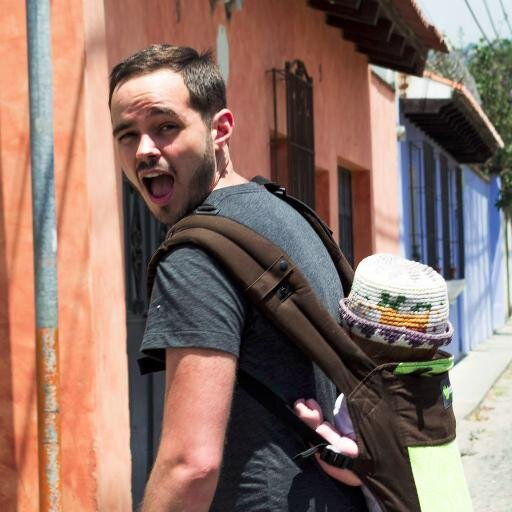
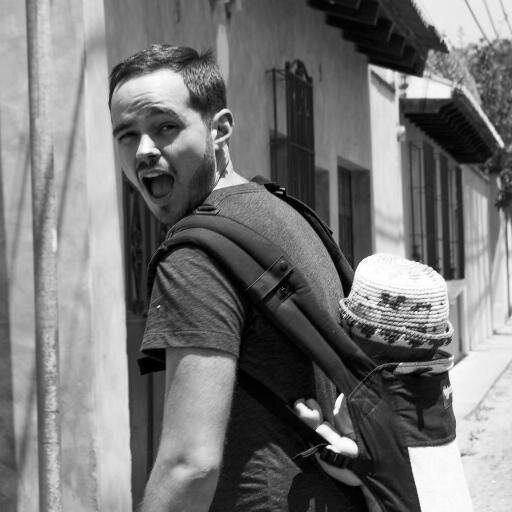
Add Jeff to team + fix images
Now all images are square and B&W as the design seems to want them to be

diff --git a/_includes/_team.html b/_includes/_team.html
@@ -331,7 +331,6 @@
 </article>
 <article class="grid u-sizeFit m-2 full-width">
   <div class="grid-cell u-size1of4">
-    <img class="rounded" src="img/grey.png" alt="David A McClain">
   </div>
   <div class="grid-cell u-size3of4">
     <div class="content-box">
@@ -368,7 +367,7 @@
 </article>
 <article class="grid u-sizeFit m-2 full-width">
   <div class="grid-cell u-size1of4">
-    <img class="rounded" src="img/sibley.jpg" alt="Daragh Sibley">
+    <img class="rounded" src="img/daragh.jpg" alt="Daragh Sibley">
   </div>
   <div class="grid-cell u-size3of4">
     <div class="content-box">
@@ -406,7 +405,7 @@ Hailing in from Canada, Thomas is taking time off school to do some of that data
 </article>
 <article class="grid u-sizeFit m-2 full-width">
   <div class="grid-cell u-size1of4">
-    <img class="rounded" src="img/eli.png" alt="Eli Bressert">
+    <img class="rounded" src="img/eli.jpg" alt="Eli Bressert">
   </div>
   <div class="grid-cell u-size3of4">
     <div class="content-box">
@@ -426,7 +425,7 @@ Eli loves big ideas and putting them into action by connecting the impossible. D
 </article>
 <article class="grid u-sizeFit m-2 full-width">
   <div class="grid-cell u-size1of4">
-    <img class="rounded" src="img/deep-small-bw.png" alt="Deep Ganguli">
+    <img class="rounded" src="img/deep.jpg" alt="Deep Ganguli">
   </div>
   <div class="grid-cell u-size3of4">
     <div class="content-box">
@@ -460,6 +459,26 @@ Cian loves developing original ideas based on insights from data whether it's in
         <a href="http://www.linkedin.com/in/cianmenzeljones" title="Cian on LinkedIn" class="ss-icon ss-social hov-c">linkedin</a>
         <a href="https://twitter.com/cianmj" title="Cian on Twitter" class="ss-icon ss-social hov-c">twitter</a>
         <a href="https://github.com/cianmj" class="ss-icon ss-social hov-c" title="Cian on Github">&#xF671;</a>
+      </p>
+    </div>
+  </div>
+</article>
+<article class="grid u-sizeFit m-2 full-width">
+  <div class="grid-cell u-size1of4">
+    <img class="rounded" src="img/jeff_m.jpg" alt="Jeff M">
+  </div>
+  <div class="grid-cell u-size3of4">
+    <div class="content-box">
+      <h1 class="h4 m-0">Jeff <span class="f5 sans-serif caps">Data</span></h1>
+      <p class="f5 tight location">
+        <small>San Francisco</small>
+      </p>
+      <p class="f6 bio">
+        Jeff likes Python, coffee, and combining the two to build data infrastructure that’s incredibly easy and fun to use.  Hails from Texas.
+        <br><br>
+        <a href="http://www.linkedin.com/in//jmagnuss" title="Cian on LinkedIn" class="ss-icon ss-social hov-c">linkedin</a>
+        <a href="https://twitter.com/jeffmagnusson" title="Cian on Twitter" class="ss-icon ss-social hov-c">twitter</a>
+        <a href="https://github.com/jeffmagnusson" class="ss-icon ss-social hov-c" title="Cian on Github">&#xF671;</a>
       </p>
     </div>
   </div>
